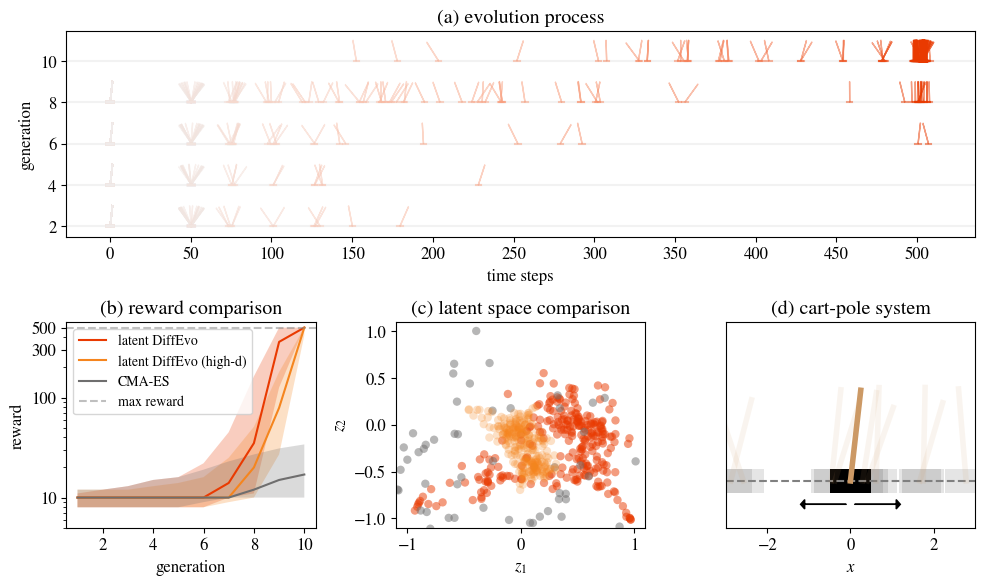
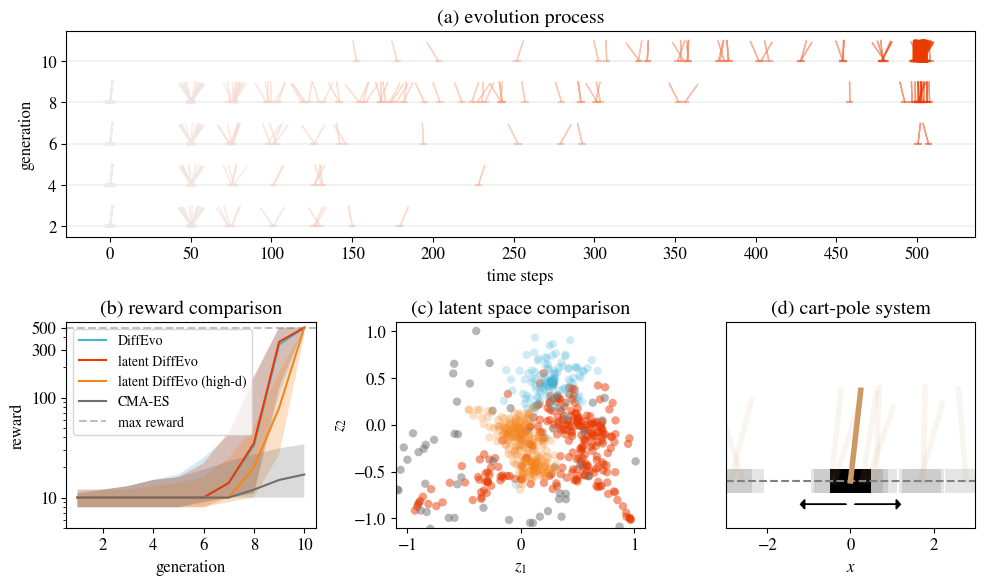
print more information

diff --git a/experiments/RL/visualization.py b/experiments/RL/visualization.py
@@ -82,6 +82,7 @@ def prepare_reward(rewards):
     return rewards
 
 def range_plot(x, color=None, label=None):
+    print(len(x), x[0].shape)
     x = prepare_reward(x)
     center = x.quantile(0.5, dim=-1)
     lower = x.quantile(0.25, dim=-1)
@@ -123,10 +124,11 @@ def reward_compare_plot(*rewards, labels=None, colors=None, ax=None):
 def latent_plot(z, ax, color=None, alpha=1, label=None, zorder=1):
     ax.scatter(z[:, 0], z[:, 1], zorder=zorder, marker='o', color=color, alpha=alpha, label=label, edgecolors='none')
 
-def compare_latent_plot(pop, pop_cmaes, random_map, pop_large, random_map_large, ax=None):
+def compare_latent_plot(pop, pop_raw, pop_cmaes, random_map, pop_large, random_map_large, ax=None):
     if ax is None:
         ax = plt.gca()
     latent_plot(random_map(pop).detach(), ax, color='#E93A01', label='latent diffusion evolution', alpha=0.5)
+    latent_plot(random_map(pop_raw).detach(), ax, color='#46B3D5', label='DiffEvo', alpha=0.25)
     latent_plot(random_map(pop_cmaes).detach(), ax, color='#6F6E6E', alpha=0.5, label='CMA-ES')
     latent_plot(random_map_large(pop_large).detach(), ax, color='#F5851E', alpha=0.25, label='latent DiffEvo (high-d)')
 
@@ -212,14 +214,14 @@ if __name__ == '__main__':
 
     # Bottom left plot
     ax2 = fig.add_subplot(gs[1, 0])
-    reward_compare_plot(rewards_latent, rewards_large, rewards_cmaes,
-                        labels=['latent DiffEvo', 'latent DiffEvo (high-d)', 'CMA-ES'],
-                        colors=['#E93A01', '#F5851E', '#6F6E6E'], ax=ax2)
+    reward_compare_plot(rewards_raw, rewards_latent, rewards_large, rewards_cmaes,
+                        labels=['DiffEvo', 'latent DiffEvo', 'latent DiffEvo (high-d)', 'CMA-ES'],
+                        colors=['#46B3D5', '#E93A01', '#F5851E', '#6F6E6E'], ax=ax2)
     ax2.set_title('(b) reward comparison')
 
     # Bottom middle plot
     ax3 = fig.add_subplot(gs[1, 1])
-    compare_latent_plot(pop_latent, pop_cmaes, random_map, pop_large, random_map_large, ax=ax3)
+    compare_latent_plot(pop_latent, pop_raw, pop_cmaes, random_map, pop_large, random_map_large, ax=ax3)
     ax3.set_title('(c) latent space comparison')
 
     # Bottom right plot
